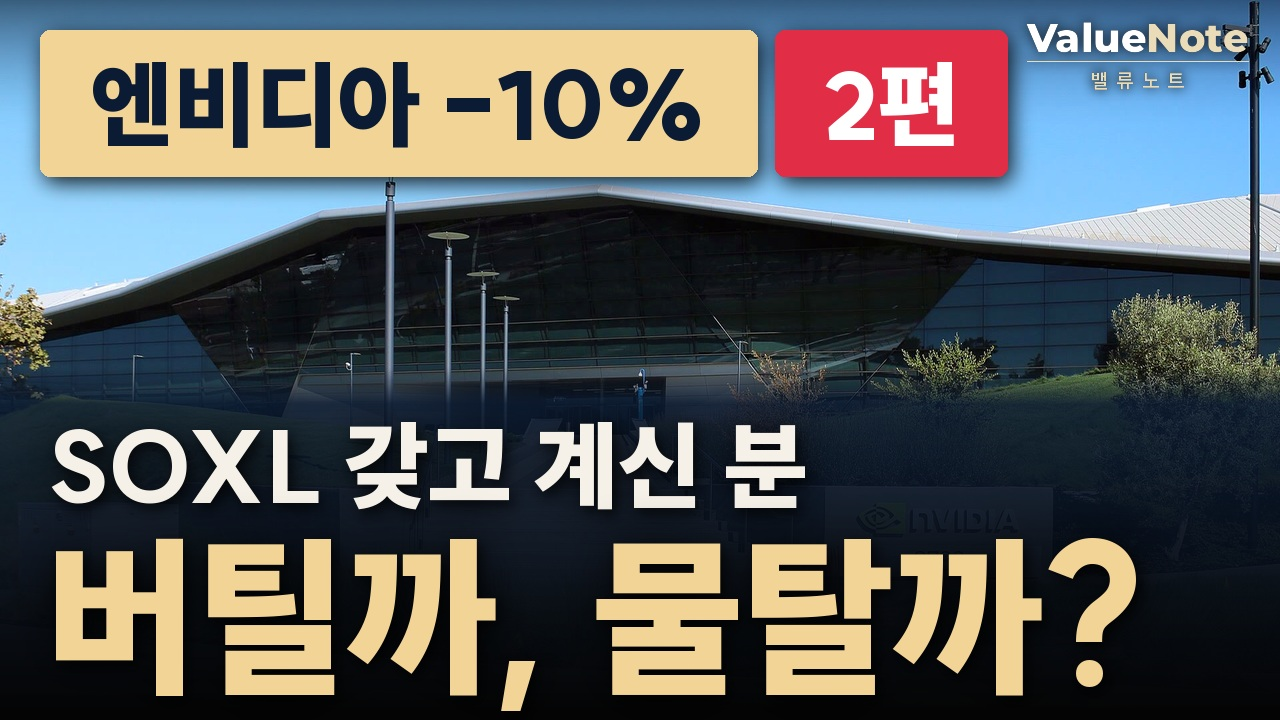
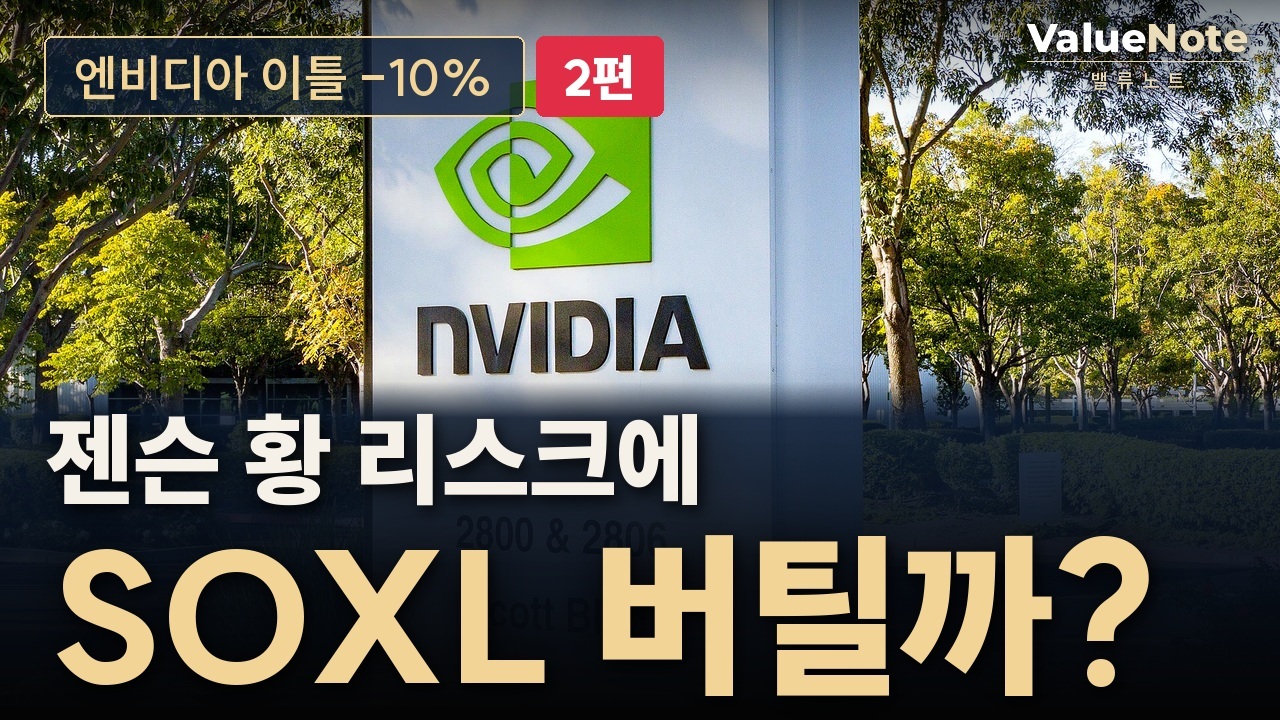
SOXL 2편 썸네일 B·C 다시(대표 11/11 09:15): B 엔비디아 간판+'젠슨 황 리스크에 / SOXL 버틸까?', C 'SOXL, 한국인이 3분의 1? / 도대체 뭐길래?', 위 띠는 얇은 네이비(tag_style slim) [skip ci]
Claude-Session: https://claude.ai/code/session_01KaYReJSUMgYMNDKAVitX2o

diff --git a/scripts/reels/thumb_v5.py b/scripts/reels/thumb_v5.py
@@ -165,7 +165,16 @@ def render(spec, out):
     if spec.get("company"):   # 2026-11-09 대표님: 쇼츠처럼 롱폼 썸네일에도 기업 로고(이름) — 두 줄 제목 바로 위
         fc = fit(spec["company"], spec.get("company_s", 104), 620, "Heavy") if not os.path.exists(os.path.join(HERE, "fonts", "Montserrat-ExtraBold.ttf")) else ImageFont.truetype(os.path.join(HERE, "fonts", "Montserrat-ExtraBold.ttf"), spec.get("company_s", 104))
         text(im, (LX + spec.get("company_dx", 2), y1 - f1.size - 72), spec["company"], fc, IVORY)   # 11/9 17:21 대표님: 더 크게, 제목과 왼쪽 정렬, 살짝 위로
-    if spec.get("tag"):   # 맨 위 금색 띠 한 줄 (예: "반드시 봐야 할 3가지") — 두 줄 제목과 별도로 넣는 강한 후킹
+    if spec.get("tag") and spec.get("tag_style") == "slim":   # 2026-11-11 대표 "위 배너가 무식하게 커 보이지 않게" — 얇은 네이비 반투명 띠 + 금색 테두리·글씨
+        ft = font(spec.get("st", 50), "Bold"); tw = ft.getlength(spec["tag"]); ph = ft.size * 1.6; pw = tw + ft.size * 1.2; x0, y0 = 44, 36
+        bx = Image.new("RGBA", im.size, (0, 0, 0, 0)); bd_ = ImageDraw.Draw(bx)
+        bd_.rounded_rectangle([x0, y0, x0 + pw, y0 + ph], 8, fill=(11, 27, 51, 200), outline=(242, 212, 151, 255), width=2); im.alpha_composite(bx)
+        ImageDraw.Draw(im).text((x0 + pw / 2, y0 + ph / 2 + 1), spec["tag"], font=ft, fill=(242, 212, 151), anchor="mm")
+        if spec.get("ep"):
+            ex = x0 + pw + 12; ew = ft.getlength(spec["ep"]) + ft.size * 1.1
+            ImageDraw.Draw(im).rounded_rectangle([ex, y0, ex + ew, y0 + ph], 8, fill=(226, 45, 70))
+            ImageDraw.Draw(im).text((ex + ew / 2, y0 + ph / 2 + 1), spec["ep"], font=font(spec.get("st", 50), "Heavy"), fill=WHITE, anchor="mm")
+    elif spec.get("tag"):   # 맨 위 금색 띠 한 줄 (예: "반드시 봐야 할 3가지") — 두 줄 제목과 별도로 넣는 강한 후킹
         # 11/9 17:21 대표님: 왼쪽 위 띠 글씨가 작다 → 62→82
         ft = fit(spec["tag"], spec.get("st", 82), 1000); tw = ft.getlength(spec["tag"]); ph = ft.size * 1.55; pw = tw + ft.size * 1.1; x0, y0 = 40, 30   # 2026-11-06 대표님 "배너가 너무 안 보인다" → 50→62px
         sh = Image.new("RGBA", im.size, (0, 0, 0, 0)); ImageDraw.Draw(sh).rounded_rectangle([x0 + 4, y0 + 6, x0 + pw + 4, y0 + ph + 6], 10, fill=(0, 0, 0, 220))
